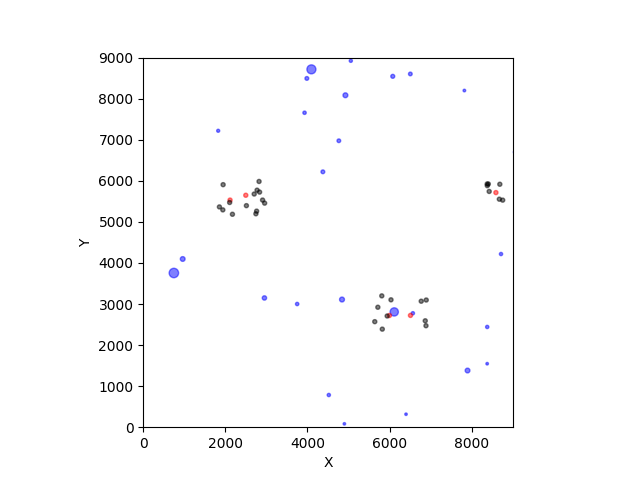
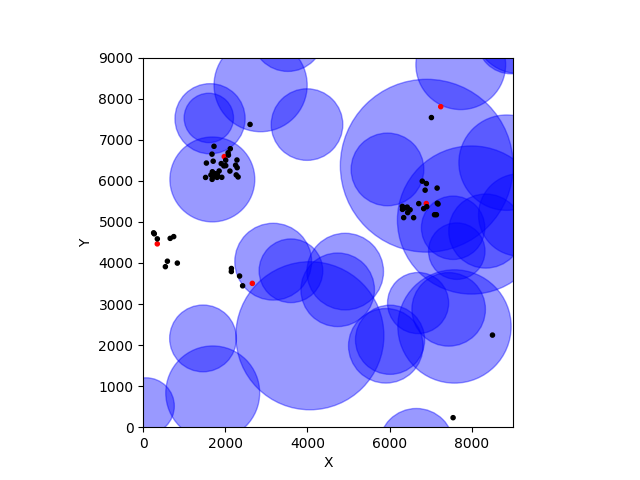
add fix

diff --git a/map.py b/map.py
@@ -14,6 +14,7 @@ req_hack = RequestHack()
 
 def get_map():
     data = req_hack.post(params={"transports": []})
+    print(data["points"])
     return data
 
 
@@ -22,7 +23,7 @@ def get_anomalies(data):
     anomalies = data["anomalies"]
     for obj in anomalies:
         circle = plt.Circle(
-            (obj["x"], obj["y"]), obj["radius"], color="blue", fill=True, alpha=0.5
+            (obj["x"], obj["y"]), obj["radius"]*20, color="blue", fill=True, alpha=0.4
         )
         ax.add_artist(circle)
 
@@ -30,16 +31,14 @@ def get_anomalies(data):
 def get_our_kovrs(data):
     kovrs = data["transports"]
     for obj in kovrs:
-        circle = plt.Circle((obj["x"], obj["y"]), 50, color="red", fill=True, alpha=0.5)
+        circle = plt.Circle((obj["x"], obj["y"]), 50, color="red", fill=True, alpha=1)
         ax.add_artist(circle)
 
 
 def get_enemies(data):
     enemies = data["enemies"]
     for obj in enemies:
-        circle = plt.Circle(
-            (obj["x"], obj["y"]), 50, color="black", fill=True, alpha=0.5
-        )
+        circle = plt.Circle((obj["x"], obj["y"]), 50, color="black", fill=True, alpha=1)
         ax.add_artist(circle)
 
 
@@ -63,4 +62,4 @@ while True:
 
     # Показываем график
     plt.savefig("out.png")
-    time.sleep(1)
+    time.sleep(0.5)
